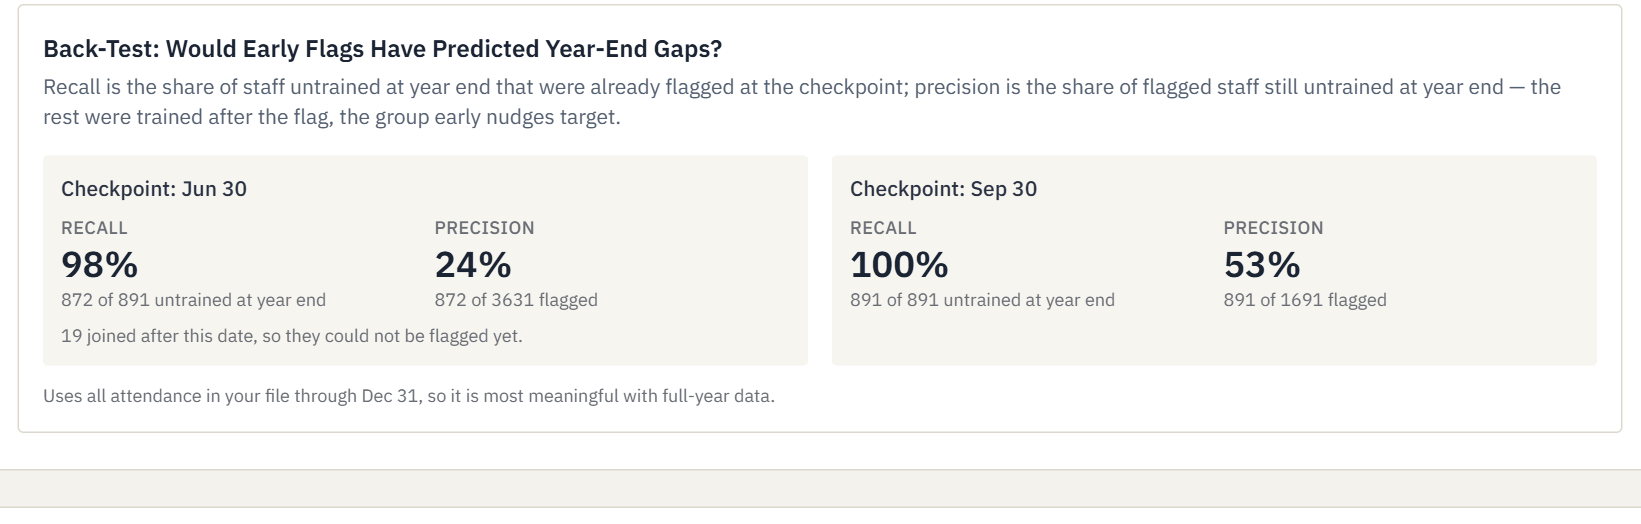
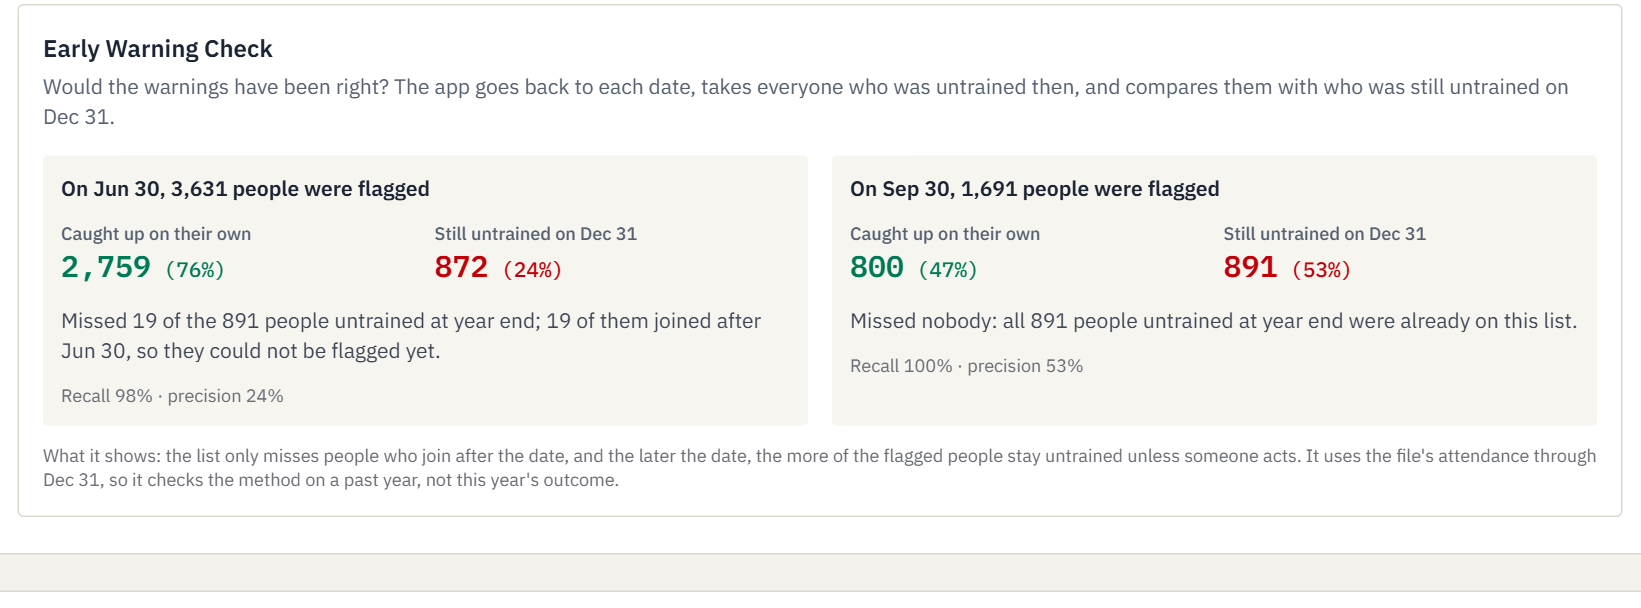
feat(ui): the back-test becomes the Early Warning Check, in plain words
Spec v2.14. For Jun 30 and Sep 30 the card now says how many people
were flagged, how many caught up on their own, how many were still
untrained on Dec 31, and whether anyone was missed (and why). Recall and
precision stay in small print for the PRD metric, and a note says it
checks the method on a past year. The executive-summary chart uses the
same name and plain labels. No calculation changes; helper in
lib/analysis/early-warning.ts with 3 tests (401 total). README results
table, demo script beat and screenshot updated.

diff --git a/components/BacktestCard.tsx b/components/BacktestCard.tsx
@@ -1,56 +1,67 @@
-import { formatRatio, type BacktestCheckpoint } from "@/lib/analysis";
+import { earlyWarningSummary, type BacktestCheckpoint } from "@/lib/analysis";
 
-function Metric({ label, value, detail }: { label: string; value: string; detail: string }) {
-  return (
-    <div>
-      <dt className="text-xs font-medium uppercase tracking-wide text-slate-500">{label}</dt>
-      <dd>
-        <span className="text-2xl font-semibold text-slate-900">{value}</span>
-        <span className="block text-xs text-slate-500">{detail}</span>
-      </dd>
-    </div>
-  );
-}
+const n = (x: number): string => x.toLocaleString("en-PH");
+const share = (pct: number | null): string => (pct === null ? "" : ` (${pct}%)`);
 
+/**
+ * Early Warning Check (spec §4.1 Display): the back-test in plain words. It rewinds to each
+ * checkpoint, takes everyone untrained then, and compares them with who was still untrained
+ * on Dec 31. Recall and precision stay in small print for the PRD success metric.
+ */
 export function BacktestCard({ backtests }: { backtests: BacktestCheckpoint[] }) {
   return (
     <section aria-labelledby="backtest-title" className="rounded-lg border border-slate-200 p-4">
       <h3 id="backtest-title" className="font-semibold text-slate-900">
-        Back-Test: Would Early Flags Have Predicted Year-End Gaps?
+        Early Warning Check
       </h3>
       <p className="mt-1 text-sm text-slate-600">
-        Recall is the share of staff untrained at year end that were already flagged at the
-        checkpoint; precision is the share of flagged staff still untrained at year end — the rest
-        were trained after the flag, the group early nudges target.
+        Would the warnings have been right? The app goes back to each date, takes everyone who was
+        untrained then, and compares them with who was still untrained on Dec 31.
       </p>
       <div className="mt-4 grid gap-4 sm:grid-cols-2">
-        {backtests.map(({ label, result }) => (
-          <div key={label} className="rounded-md bg-slate-50 p-3">
-            <h4 className="mb-2 text-sm font-medium text-slate-800">Checkpoint: {label}</h4>
-            <dl className="grid grid-cols-2 gap-3">
-              <Metric
-                label="Recall"
-                value={formatRatio(result.recall)}
-                detail={`${result.caughtEarly} of ${result.nonCompliantAtYearEnd} untrained at year end`}
-              />
-              <Metric
-                label="Precision"
-                value={formatRatio(result.precision)}
-                detail={`${result.caughtEarly} of ${result.flaggedAtCheckpoint} flagged`}
-              />
-            </dl>
-            {result.notCoveredAtCheckpoint > 0 && (
-              <p className="mt-2 text-xs text-slate-500">
-                {result.notCoveredAtCheckpoint} joined after this date, so they could not be
-                flagged yet.
+        {backtests.map(({ label, result }) => {
+          const s = earlyWarningSummary(result);
+          return (
+            <div key={label} className="space-y-3 rounded-md bg-slate-50 p-3">
+              <h4 className="text-sm font-semibold text-slate-900">
+                On {label}, {n(s.flagged)} {s.flagged === 1 ? "person was" : "people were"} flagged
+              </h4>
+              <dl className="grid grid-cols-2 gap-3">
+                <div>
+                  <dt className="text-xs font-medium text-slate-600">Caught up on their own</dt>
+                  <dd className="font-mono text-xl font-semibold text-emerald-700">
+                    {n(s.caughtUp)}
+                    <span className="text-sm font-normal">{share(s.caughtUpPct)}</span>
+                  </dd>
+                </div>
+                <div>
+                  <dt className="text-xs font-medium text-slate-600">Still untrained on Dec 31</dt>
+                  <dd className="font-mono text-xl font-semibold text-red-700">
+                    {n(s.stillUntrained)}
+                    <span className="text-sm font-normal">{share(s.stillUntrainedPct)}</span>
+                  </dd>
+                </div>
+              </dl>
+              <p className="text-sm text-slate-700">
+                {s.missed === 0
+                  ? `Missed nobody: all ${n(s.yearEndGaps)} people untrained at year end were already on this list.`
+                  : `Missed ${n(s.missed)} of the ${n(s.yearEndGaps)} people untrained at year end${
+                      s.joinedLater > 0 ? `; ${n(s.joinedLater)} of them joined after ${label}, so they could not be flagged yet` : ""
+                    }.`}
               </p>
-            )}
-          </div>
-        ))}
+              <p className="text-xs text-slate-500">
+                Recall {s.recallPct === null ? "—" : `${s.recallPct}%`} · precision{" "}
+                {s.precisionPct === null ? "—" : `${s.precisionPct}%`}
+              </p>
+            </div>
+          );
+        })}
       </div>
       <p className="mt-3 text-xs text-slate-500">
-        Uses all attendance in your file through Dec 31, so it is most meaningful with full-year
-        data.
+        What it shows: the list only misses people who join after the date, and the later the
+        date, the more of the flagged people stay untrained unless someone acts. It uses the
+        file&apos;s attendance through Dec 31, so it checks the method on a past year, not this
+        year&apos;s outcome.
       </p>
     </section>
   );

diff --git a/components/BacktestCostPanels.tsx b/components/BacktestCostPanels.tsx
@@ -18,8 +18,8 @@ export function BacktestPanel({ analysis }: { analysis: Analysis }) {
   const series = backtestSeries(analysis.backtests);
   return (
     <ChartPanel
-      title="Would Early Flags Have Worked?"
-      description="Back-test: share of year-end gaps already flagged (recall) and of flags that stayed gaps (precision)."
+      title="Early Warning Check"
+      description="Year-end gaps already on the early list, and flagged people still untrained on Dec 31."
       summary={series
         .map((s) => `${s.checkpoint}: recall ${percentLabel(s.recall) || "n/a"}, precision ${percentLabel(s.precision) || "n/a"}`)
         .join("; ")}
@@ -31,10 +31,10 @@ export function BacktestPanel({ analysis }: { analysis: Analysis }) {
           <YAxis domain={[0, 100]} unit="%" tick={{ fontSize: 12 }} width={44} />
           <Tooltip formatter={(value) => percentLabel(value)} />
           <Legend iconType="square" wrapperStyle={{ fontSize: 12 }} />
-          <Bar dataKey="recall" name="Recall" fill={INDIGO} radius={[4, 4, 0, 0]}>
+          <Bar dataKey="recall" name="Year-end gaps already flagged (recall)" fill={INDIGO} radius={[4, 4, 0, 0]}>
             <LabelList dataKey="recall" position="top" fontSize={12} formatter={percentLabel} />
           </Bar>
-          <Bar dataKey="precision" name="Precision" fill={SLATE} radius={[4, 4, 0, 0]}>
+          <Bar dataKey="precision" name="Flagged and still untrained (precision)" fill={SLATE} radius={[4, 4, 0, 0]}>
             <LabelList dataKey="precision" position="top" fontSize={12} formatter={percentLabel} />
           </Bar>
         </BarChart>

diff --git a/tests/early-warning.test.ts b/tests/early-warning.test.ts
@@ -1,0 +1,40 @@
+import { describe, expect, it } from "vitest";
+import { earlyWarningSummary } from "@/lib/analysis";
+
+const result = (flagged: number, gaps: number, caught: number, joined: number) => ({
+  flaggedAtCheckpoint: flagged,
+  nonCompliantAtYearEnd: gaps,
+  caughtEarly: caught,
+  notCoveredAtCheckpoint: joined,
+  recall: gaps > 0 ? caught / gaps : null,
+  precision: flagged > 0 ? caught / flagged : null,
+});
+
+describe("earlyWarningSummary (spec §4.1 Display)", () => {
+  it("explains the Jun 30 sample checkpoint in plain counts", () => {
+    expect(earlyWarningSummary(result(3631, 891, 872, 19))).toEqual({
+      flagged: 3631,
+      caughtUp: 2759,
+      caughtUpPct: 76,
+      stillUntrained: 872,
+      stillUntrainedPct: 24,
+      yearEndGaps: 891,
+      missed: 19,
+      joinedLater: 19,
+      recallPct: 98,
+      precisionPct: 24,
+    });
+  });
+
+  it("reports no misses when every year-end gap was flagged (Sep 30 sample)", () => {
+    const s = earlyWarningSummary(result(1691, 891, 891, 0));
+    expect(s).toMatchObject({ caughtUp: 800, caughtUpPct: 47, stillUntrained: 891, stillUntrainedPct: 53, missed: 0, recallPct: 100 });
+  });
+
+  it("keeps the two shares summing to 100 and handles nobody flagged", () => {
+    const s = earlyWarningSummary(result(3, 1, 1, 0));
+    expect((s.caughtUpPct ?? 0) + (s.stillUntrainedPct ?? 0)).toBe(100);
+    const none = earlyWarningSummary(result(0, 0, 0, 0));
+    expect(none).toMatchObject({ caughtUpPct: null, stillUntrainedPct: null, recallPct: null, precisionPct: null });
+  });
+});

diff --git a/lib/analysis/early-warning.ts b/lib/analysis/early-warning.ts
@@ -1,0 +1,38 @@
+import type { BacktestResult } from "@/lib/engine";
+
+/** The back-test in plain counts for the Early Warning Check card (spec §4.1 Display). */
+export interface EarlyWarningSummary {
+  flagged: number;
+  /** Flagged at the checkpoint but trained (or gone) by year end. */
+  caughtUp: number;
+  caughtUpPct: number | null;
+  /** Flagged and still untrained at year end (the precision numerator). */
+  stillUntrained: number;
+  stillUntrainedPct: number | null;
+  yearEndGaps: number;
+  /** Untrained at year end but not flagged at the checkpoint. */
+  missed: number;
+  /** Of the year-end gaps, those who joined after the checkpoint. */
+  joinedLater: number;
+  recallPct: number | null;
+  precisionPct: number | null;
+}
+
+const pct = (ratio: number | null): number | null => (ratio === null ? null : Math.round(ratio * 100));
+
+export function earlyWarningSummary(r: BacktestResult): EarlyWarningSummary {
+  const stillUntrainedPct = pct(r.precision);
+  return {
+    flagged: r.flaggedAtCheckpoint,
+    caughtUp: r.flaggedAtCheckpoint - r.caughtEarly,
+    // Complement of the rounded share, so the two always add up to 100.
+    caughtUpPct: stillUntrainedPct === null ? null : 100 - stillUntrainedPct,
+    stillUntrained: r.caughtEarly,
+    stillUntrainedPct,
+    yearEndGaps: r.nonCompliantAtYearEnd,
+    missed: r.nonCompliantAtYearEnd - r.caughtEarly,
+    joinedLater: r.notCoveredAtCheckpoint,
+    recallPct: pct(r.recall),
+    precisionPct: stillUntrainedPct,
+  };
+}

diff --git a/lib/analysis/index.ts b/lib/analysis/index.ts
@@ -17,4 +17,5 @@ export * from "./export";
 export * from "./files";
 export * from "./format";
 export * from "./charts";
+export * from "./early-warning";
 export * from "./templates";

diff --git a/README.md b/README.md
@@ -2,7 +2,7 @@
 
 [![CI](https://github.com/Chris-GottaGit5hub/training-compliance-radar/actions/workflows/ci.yml/badge.svg)](https://github.com/Chris-GottaGit5hub/training-compliance-radar/actions/workflows/ci.yml)
 
-Privacy-first AI app that flags employees at risk of missing the one-training-per-year rule, months before year-end.
+Privacy-first AI app that flags employees at risk of missing the at least, one-training-per-year rule, months before year-end.
 
 **Live demo:** https://training-compliance-radar.vercel.app — click **Load sample data** to try it with a synthetic agency. No sign-in, nothing to install. (AI features use a free Gemini quota of about 20 requests a day; if it is used up they show a "daily limit reached" message and everything else still works.)
 
@@ -31,8 +31,8 @@ All screens use the built-in synthetic sample (12,000 fictional employees). More
 **What-if: one run removed, every number recalculated**
 ![Edit mode with a removed run and the recalculated calendar summary](docs/screenshots/12-calendar-what-if.png)
 
-**Back-Test: would early flags have predicted year-end gaps?**
-![Back-test recall and precision at Jun 30 and Sep 30](docs/screenshots/07-backtest.png)
+**Early Warning Check: would the warnings have been right?**
+![Early Warning Check at Jun 30 and Sep 30: flagged, caught up on their own, still untrained, missed](docs/screenshots/07-backtest.png)
 
 **Unit Panel: at-risk staff for one department (names stay in the browser)**
 ![Unit panel for Southern Luzon Branches with the at-risk list](docs/screenshots/08-unit-panel.png)
@@ -53,10 +53,10 @@ All screens use the built-in synthetic sample (12,000 fictional employees). More
 - **Realistic balance**: spend so far plus everything already promised, namely every calendar run still to come (in-house runs priced from speaker honoraria and snacks, external trainings at their fee per participant, external : in-house 3:1), expected external nominations outside the calendar, and annual subscriptions (Mentimeter, Kahoot!, Canva, Adobe), giving a projected year-end balance. Subscriptions and nominations are editable in Rules.
 - **Training calendar tab**, with an **Edit calendar** what-if mode (add, edit, duplicate and remove runs; undo, restore and reset; every number recomputes; changes stay in the browser and are lost on reload, so export the CSV to keep them): every planned run for the year in four views (month grid, list, a course-by-month timeline, and a by-quarter list of trainings still available with estimated seats open), each run with its state (held, planned, not needed, after Dec 14), cost at expected enrolment, seats, the external : in-house mix against 3:1, cost by month, the sector windows for the recommended course, alerts, CSV export and print.
 - **Recommended-course windows and a plan** (optional catalog flag `recommended` and `calendar.csv`): one staggered monthly window per sector for the annual course (e.g. AMLA), who completed or missed it, and a deterministic plan for the rest: licensed staff on LinkedIn at no extra cost, unlicensed staff in calendar runs above their minimum size or on the paid LinkedIn fee, no in-person runs after Dec 14.
-- **Back-test card**: recall and precision at Jun 30 and Sep 30.
+- **Early Warning Check** (the back-test, in plain words): for Jun 30 and Sep 30, how many people were flagged, how many caught up on their own, how many were still untrained on Dec 31, and whether anyone was missed; recall and precision in small print.
 - **Unit panel**: at-risk employees, each with a **Recommended Course** and a **Complete By** date (licensed staff on a LinkedIn course by Nov 30, unlicensed staff in the calendar run the plan places them in, by its date), CSV export with the same columns, an AI-drafted memo laid out as justified paragraphs, a numbered table of each person's assigned course and deadline, and a Course Access list (copy and download keep the same order), and catalog-grounded course recommendations.
 - **Works without AI, too:** if an AI call fails or the free quota runs out, memos and the executive summary fall back to a clearly labeled template draft built from the same numbers.
-- **Executive summary** for a department head: an AI-written narrative plus four charts (status breakdown, highest-risk units, back-test, cost vs budget) drawn from the engine, so they stay accurate and still appear if the AI is unavailable.
+- **Executive summary** for a department head: an AI-written narrative plus four charts (status breakdown, highest-risk units, early warning check, cost vs budget) drawn from the engine, so they stay accurate and still appear if the AI is unavailable.
 - **Privacy by design**: employee names and IDs never leave the browser.
 - **Civic Ledger look**: a navy header, warm paper background, ruled panels, IBM Plex type with monospaced figures, and Title Case headings, chosen from five design options.
 
@@ -103,7 +103,7 @@ Switching provider is one variable (`AI_PROVIDER=groq` or `anthropic`) plus its 
 
 ## Tests
 
-`npm test` runs **398 tests in 35 files** (Vitest). They cover:
+`npm test` runs **401 tests in 36 files** (Vitest). They cover:
 
 - every compliance rule and their order, ranking, rounding, back-test and cost-to-close;
 - CSV validation (missing columns, duplicates, impossible dates, limits);
@@ -114,14 +114,14 @@ Switching provider is one variable (`AI_PROVIDER=groq` or `anthropic`) plus its 
 
 CI runs lint, typecheck, tests, build, a report-only `npm audit`, and gitleaks on every push.
 
-## Back-test results
+## Back-test results (Early Warning Check)
 
-On the seeded synthetic data (12,000 employees, year 2026), rules as of each checkpoint compared with who was actually untrained at Dec 31:
+On the seeded synthetic data (12,000 employees, year 2026), the app goes back to each checkpoint, takes everyone untrained then, and compares them with who was actually untrained at Dec 31. The dashboard shows this as the **Early Warning Check** card in plain words:
 
-| Checkpoint | Flagged at-risk | Untrained at year end | Caught early | Recall | Precision |
-|---|---|---|---|---|---|
-| Jun 30 | 3,631 | 891 | 872 | 98% | 24% |
-| Sep 30 | 1,691 | 891 | 891 | 100% | 53% |
+| Checkpoint | Flagged | Caught up on their own | Still untrained Dec 31 | Missed | Recall | Precision |
+|---|---|---|---|---|---|---|
+| Jun 30 | 3,631 | 2,759 (76%) | 872 (24%) | 19 (all joined after Jun 30) | 98% | 24% |
+| Sep 30 | 1,691 | 800 (47%) | 891 (53%) | none | 100% | 53% |
 
 - **Recall** (share of year-end gaps already flagged) meets the PRD target of at least 80%. It is structurally high: an untrained employee stays at risk until trained, so recall mainly drops for people hired after the checkpoint.
 - **Precision** is the informative number. `1 − precision` is the share of flagged staff who were trained before year-end: the group early nudges target (76% at Jun 30, 47% at Sep 30).

diff --git a/spec.md b/spec.md
@@ -1,4 +1,4 @@
-# spec.md — Training Compliance Radar (v2.13)
+# spec.md — Training Compliance Radar (v2.14)
 
 > Source of truth for implementation. When code and spec disagree, **the spec wins** — update the spec first, then the code.
 
@@ -126,6 +126,7 @@ Other rules:
 - Returns counts only (no IDs). `recall` and `precision` are 0–1 ratios (unrounded).
 - **Reporting:** the app reports recall **and** precision at two checkpoints, Jun 30 and Sep 30 of `year` (two calls to `backtest`).
 - **Reading precision:** `1 − precision` is the share of employees flagged at the checkpoint who were not AT_RISK at year end, i.e. who were trained before year-end (or separated). They are the group early nudges target. Recall alone is easy to satisfy because an untrained, still-covered employee stays AT_RISK until trained; precision shows how many flags were later closed.
+- **Display (v2.14, "Early Warning Check"):** the dashboard card and the executive-summary chart explain each checkpoint in plain words (`earlyWarningSummary`, `lib/analysis/early-warning.ts`): people flagged; how many caught up by year end (`flagged − caughtEarly`, with its share of the flagged) and how many were still untrained (`caughtEarly`, = precision); and how many year-end gaps were missed (`nonCompliantAtYearEnd − caughtEarly`, with how many joined after the checkpoint). Recall and precision stay on the card in small print, because the PRD's success metric is recall. A note says the check uses the file's attendance through Dec 31, so it checks the method on a past year, not this year's outcome. Calculations are unchanged.
 
 ### 4.2 Cost-to-close
 `costToClose(results, roster, catalog, config)` likewise takes the roster to read each employee's licensing.
@@ -343,6 +344,7 @@ Engine: rules 1–5 each, monthsRemaining (Jan/Sep/Dec), rounding, ranking order
 | 1.6 | 2026-11-08 | Executive summary card now includes four engine-drawn charts (status breakdown, highest-risk units, back-test, cost vs budget) that do not depend on the AI. Summary prompt asks for plain-English labels, ₱ amounts, and a plain statement of whether the budget covers the cost to close. | user request |
 | 1.7 | 2026-11-08 | Removed the `GET /api/status?probe=1` model probe: Google's free tier allows only 20 requests per day per model, and a public probe could use that up. `/api/status` now only reports configuration and makes no model call. AI errors distinguish the free-tier daily cap (`http_429_daily`) with a clear message. | found on live site |
 | 1.8 | 2026-11-08 | No-AI fallback: when a memo or summary AI call fails, the UI shows a labeled template draft built from the engine's numbers (memo keeps the `{{EMPLOYEE_LIST}}` token, names merged locally). Replaces "AI buttons disabled when not configured" with "error + Retry + template", since the free Gemini tier allows only about 20 requests per day. | user request |
+| 2.14 | 2026-11-18 | The back-test card becomes the **Early Warning Check** (§4.1 Display): plain sentences per checkpoint (flagged, caught up on their own, still untrained at year end, missed), recall and precision kept in small print for the PRD metric, and a note that it checks the method on a past year. The executive-summary chart uses the same name and plain labels. No calculation changes. | user found "recall" and "precision" confusing for an L&D officer |
 | 2.13 | 2026-11-18 | **Memo layout** (§6): the memo shows a bold "Subject:" line; the body's paragraphs left-aligned and justified; in place of `{{EMPLOYEE_LIST}}` a numbered table (No., Employee Name, Role, Assigned Course with "(paid)" in italics, Deadline); then **Course Access**: every course someone is assigned, followed by the unit's other recommended courses marked "(optional alternative)", with duration and link from the catalog when the title matches; then the closing paragraphs (`memoLayout`, `lib/analysis/memo-layout.ts`). Copy and Download give the same order as plain text with numbered lines. The AI prompt and the template no longer list courses in the body, since Course Access lists them. | user supplied a memo mockup |
 | 2.12 | 2026-11-18 | **Per-person course and due date.** The plan records each at-risk employee's route (§4.9 item 5, browser only), and `withAssignments` gives each one a recommended course and a complete-by date (item 6). The Unit Panel table gains Recommended Course and Complete By columns, each memo name line ends with them, and the at-risk CSV gains `recommended_course` and `complete_by` (§4.4). The memo now says each person needs only the course listed next to their name; the prompt no longer invites the model to write the field name `monthsRemaining`, and the server rewrites it if it does. | user found the memo course list ambiguous and "3 monthsRemaining" in a draft |
 | 2.11 | 2026-11-18 | The external : in-house mix reads **3:1** (no decimal, no spaces) when it rounds to a whole number, and keeps one decimal otherwise (3.3:1); the target and the mix alert use the same form. Acceptance 37 updated. | user request |

diff --git a/docs/demo-script.md b/docs/demo-script.md
@@ -19,7 +19,7 @@ Live site: https://training-compliance-radar.vercel.app (open it in an **incogni
 | **0:42–0:55** | **The Money** panel; hover the balance card | "The Money says it in one line: ₱72.52M of the ₱100M allocation is spent, ₱20.43M is already promised, so about ₱7.04M, 7%, is left at year end. Closing the gap costs ₱332,000, the cheapest mix of runs and LinkedIn." |
 | **0:55–1:05** | Bar chart, then **Units Ranked by Risk** | "Only units with untrained staff are listed, ranked by risk. Southern Luzon Branches leads with 88." |
 | **1:05–1:17** | **Training Calendar** tab; year grid; *optional:* **Edit calendar** → remove one planned run → point at the totals → **Reset all changes** | "The calendar shows all 48 runs: 36 external to 12 in-house, exactly 3 to 1. Only 3 of the 17 upcoming runs are needed. I can cancel a run as a what-if and every number recalculates; nothing is saved." |
-| **1:17–1:25** | Back to **Radar**; **Back-Test** card | "Does early flagging work? At Sep 30 we flag 1,691 people and catch all 891 who end the year untrained." |
+| **1:17–1:25** | Back to **Radar**; **Early Warning Check** card | "Does the early warning work? On September 30 the app flagged 1,691 people. 800 caught up on their own; the other 891 were still untrained on December 31, and it missed nobody. So September is when to act." |
 | **1:25–1:35** | Click **Southern Luzon Branches**; point at **Recommended Course** and **Complete By**; **Export at-risk CSV** | "Click a unit for its at-risk list. Each person gets one course and a date: licensed staff take a LinkedIn course by November 30, the rest go into the calendar run the plan picked. Export it to CSV." |
 | **1:35–1:52** | **Recommend courses**, then **Generate memo** | "AI recommends courses only from my catalog, and every ID is checked. The memo is drafted from counts alone; the names are merged in my browser, so the AI never sees them." |
 | **1:52–2:00** | **Executive Summary** (header), then the GitHub repo | "One click gives a department head a summary. The code computes; the AI communicates. Source, tests and CI are on GitHub." |
